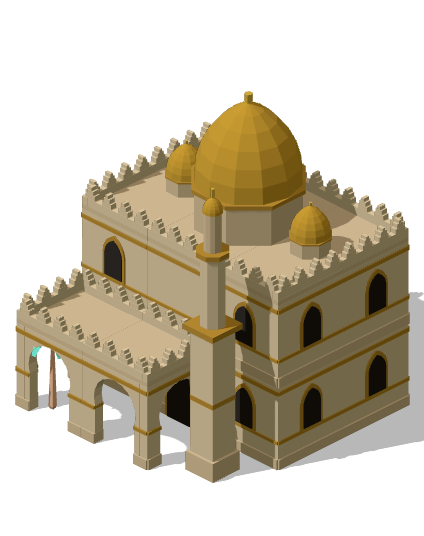
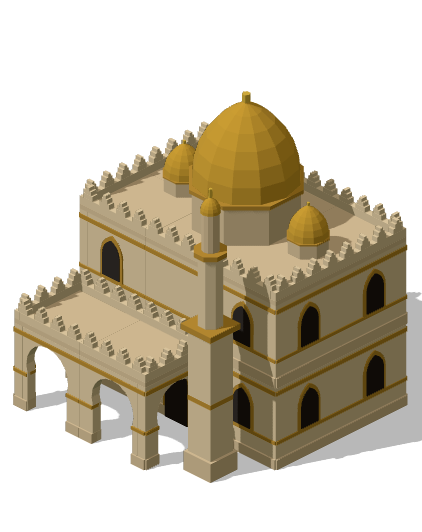
test(art): pin the Islamic pilot at 20 approved sprites
Approved at review point 2. Polish before approval: hide-coloured tents
(the Kenney tent rendered pink), bent palm moved off the palace portico,
mosque palm that showed through the arcade removed.

diff --git a/tools/art/islamic-recipes.js b/tools/art/islamic-recipes.js
@@ -39,6 +39,7 @@ export function islamicSlots(civ, age) {
 const I = 'islamic';
 const ROT = { e: 0, s: -90, w: 180, n: 90 };
 const CYPRESS = { color: '#2f5a3a' };
+const HIDE = { color: '#b49a72' };   // the Kenney tent's own fabric renders pink; hide-coloured canvas suits a camp
 
 // ring of wall pieces around a w x d block of cells from tile (x0, y0); feats: { s0: 'wall-door', e1: 'wall-window' }
 function ring(k, x0, y0, w, d, z = 0, feats = {}, base = 'wall') {
@@ -89,7 +90,7 @@ export const ISLAMIC_RECIPES = {
       k.add(I, 'portal', 2, 3, 0, ROT.s);
       crown(k, 'kumbet', 1, 1, 1.06, 0.9);
       if (k.style === 1) crown(k, 'dome-lead', 2.4, 1.6, 1.06, 1.1);
-      k.add('nature', 'tent_detailedOpen', 3.7, 3.7, 0, -30, 0.5);
+      k.add('nature', 'tent_detailedOpen', 3.7, 3.7, 0, -30, 0.5, HIDE);
     } else {
       // Ottoman Divan: two-storey hall behind a domed portico, stepped domes up to a central dome with an alem
       ring(k, 0.5, 0.5, 3, 2, 0, { s0: 'wall-window', s1: 'wall-door', s2: 'wall-window', e0: 'wall-window', e1: 'wall-door' });
@@ -144,7 +145,7 @@ export const ISLAMIC_RECIPES = {
     roof(k, 0.5, 0.5, 3, 2, top, 'merlon-stepped');
     if (k.style === 0) {
       // mud-brick compound: walled hall, shade tent and palms
-      k.add('nature', 'tent_detailedOpen', 1.6, 3.3, 0, 0, 0.7);
+      k.add('nature', 'tent_detailedOpen', 1.6, 3.3, 0, 0, 0.7, HIDE);
     } else {
       // Dar al-Imara: horseshoe-arcaded portico before a hall under a pointed ribbed dome
       crown(k, 'dome-ribbed', 2, 1.5, top + 0.06, tall ? 1.7 : 1.3);
@@ -152,7 +153,7 @@ export const ISLAMIC_RECIPES = {
       if (k.style === 3) crown(k, 'minaret-square', 0.8, 0.8, top + 0.06, 0.6);
     }
     k.add('nature', 'tree_palm', 3.75, 0.4, 0, 0, 0.8);
-    k.add('nature', 'tree_palmBend', 3.75, 3.7, 0, 200, 0.75);
+    k.add('nature', 'tree_palmBend', 3.8, 2.2, 0, 20, 0.75);
   } },
   monastery_saracens: { civ: 'saracens', size: 3, styles: [2, 3], scale: 1.02, sq: 1.02, build(k) {
     // courtyard mosque: arcaded front, prayer hall under a pointed ribbed dome, square tiered minaret
@@ -163,6 +164,5 @@ export const ISLAMIC_RECIPES = {
     if (k.style === 3) for (const x of [0.55, 2.45]) crown(k, 'dome-ribbed', x, 0.95, 2.06, 0.6);
     portico(k, 0, 2, 2, null, 'merlon-stepped');
     crown(k, 'minaret-square', 2.5, 2.5, 0, 1.15);
-    k.add('nature', 'tree_palm', 0.3, 2.75, 0, 0, 0.6);
   } },
 };

diff --git a/game/art/kenney/manifest.js b/game/art/kenney/manifest.js
@@ -862,44 +862,44 @@ const KENNEY_ART = {
   "SC": 2
  },
  "tc_saracens_0": {
-  "w": 293,
-  "h": 218,
-  "ax": 143.84,
+  "w": 285,
+  "h": 214,
+  "ax": 134,
   "ay": 127.52,
   "SC": 2
  },
  "tc_saracens_1": {
-  "w": 293,
-  "h": 260,
-  "ax": 143.84,
+  "w": 285,
+  "h": 256,
+  "ax": 134,
   "ay": 169.73,
   "SC": 2
  },
  "tc_saracens_2": {
-  "w": 293,
-  "h": 319,
-  "ax": 143.84,
+  "w": 285,
+  "h": 315,
+  "ax": 134,
   "ay": 228.36,
   "SC": 2
  },
  "tc_saracens_3": {
-  "w": 293,
-  "h": 326,
-  "ax": 143.84,
+  "w": 285,
+  "h": 322,
+  "ax": 134,
   "ay": 235.44,
   "SC": 2
  },
  "monastery_saracens_2": {
-  "w": 212,
-  "h": 262,
-  "ax": 106.33,
+  "w": 211,
+  "h": 260,
+  "ax": 105.23,
   "ay": 196.05,
   "SC": 2
  },
  "monastery_saracens_3": {
-  "w": 212,
-  "h": 268,
-  "ax": 106.33,
+  "w": 211,
+  "h": 266,
+  "ax": 105.23,
   "ay": 202.16,
   "SC": 2
  }

diff --git a/tests/islamic-art.test.js b/tests/islamic-art.test.js
@@ -87,5 +87,8 @@ test('every recipe style is baked into the manifest with its PNG', () => {
     assert.ok(fs.existsSync(path.join(root, 'game/art/kenney', key + '.png')), key + '.png missing');
   }
 });
+test('the pilot covers exactly 20 sprites', () => {
+  assert.equal(Object.values(R.ISLAMIC_RECIPES).reduce((n, r) => n + r.styles.length, 0), 20);
+});
 console.log(`${pass} passed, ${fail} failed`);
 process.exitCode = fail ? 1 : 0;
